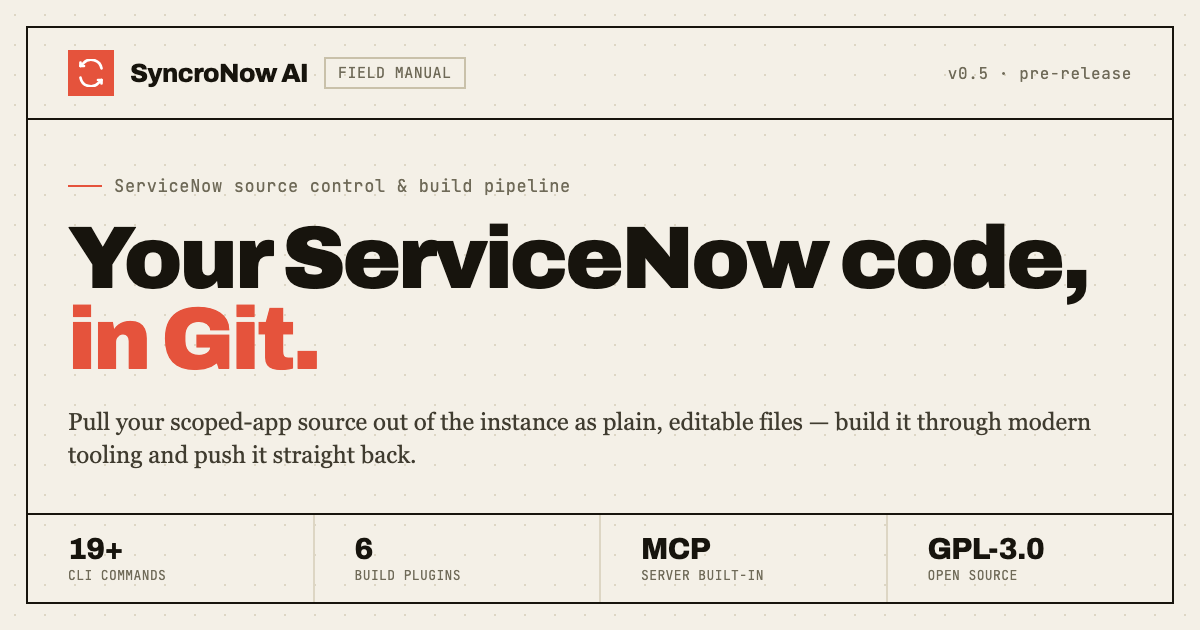
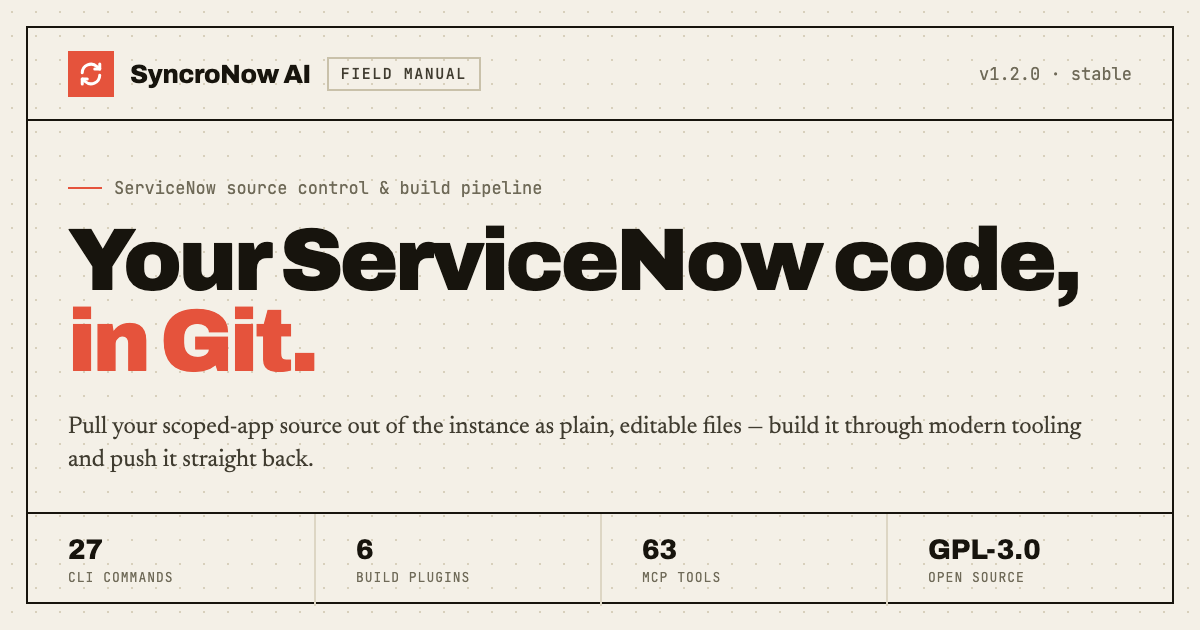
docs(site): refresh the social card for 1.2.0
The card still read v0.5 pre-release with the old command count. It now
shows v1.2.0 stable, 27 CLI commands and 63 MCP tools, and the og/twitter
image URL carries a version query so link previews drop the cached card.

diff --git a/docs/index.html b/docs/index.html
@@ -31,7 +31,7 @@
       content="Track ServiceNow scoped-app source in Git, build it through modern tooling, and push the output straight back to the record — save → build → push, plus a built-in MCP server."
     />
     <meta property="og:url" content="https://ivanbbaev.github.io/syncrona/" />
-    <meta property="og:image" content="https://ivanbbaev.github.io/syncrona/assets/og-image.png" />
+    <meta property="og:image" content="https://ivanbbaev.github.io/syncrona/assets/og-image.png?v=1.2.0" />
     <meta property="og:image:width" content="1200" />
     <meta property="og:image:height" content="630" />
     <meta
@@ -44,7 +44,7 @@
       name="twitter:description"
       content="Track ServiceNow scoped-app source in Git with a real build pipeline and a built-in MCP server for AI-assisted analysis."
     />
-    <meta name="twitter:image" content="https://ivanbbaev.github.io/syncrona/assets/og-image.png" />
+    <meta name="twitter:image" content="https://ivanbbaev.github.io/syncrona/assets/og-image.png?v=1.2.0" />
     <meta
       name="twitter:image:alt"
       content="SyncroNow AI — track ServiceNow scoped-app code in Git. 27 commands, 6 build plugins, MCP server, GPL-3.0."
